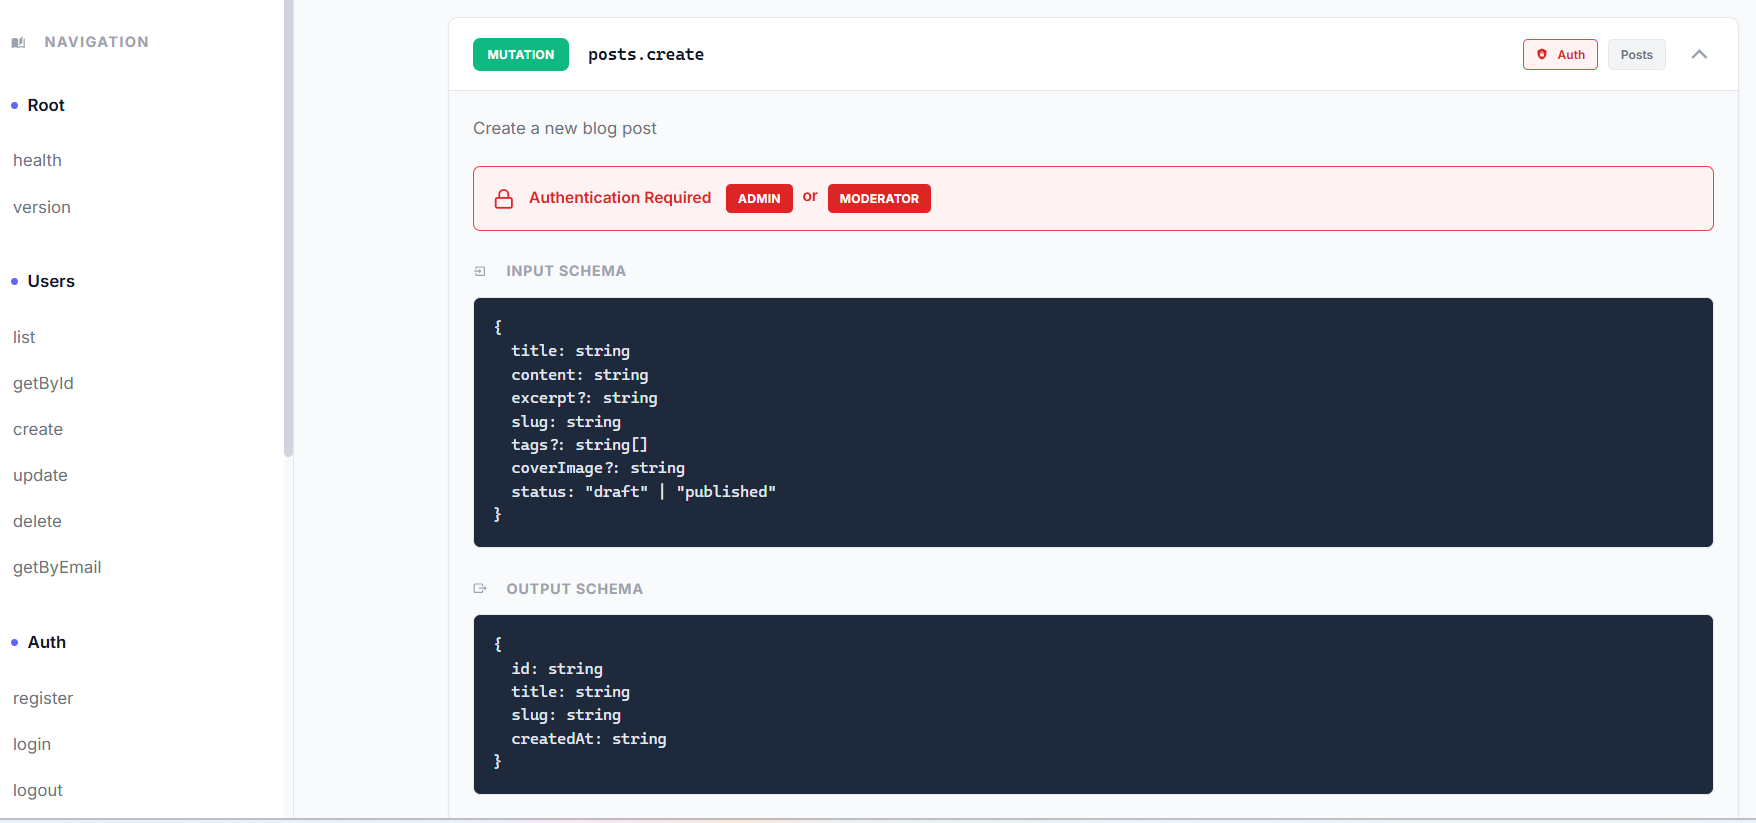
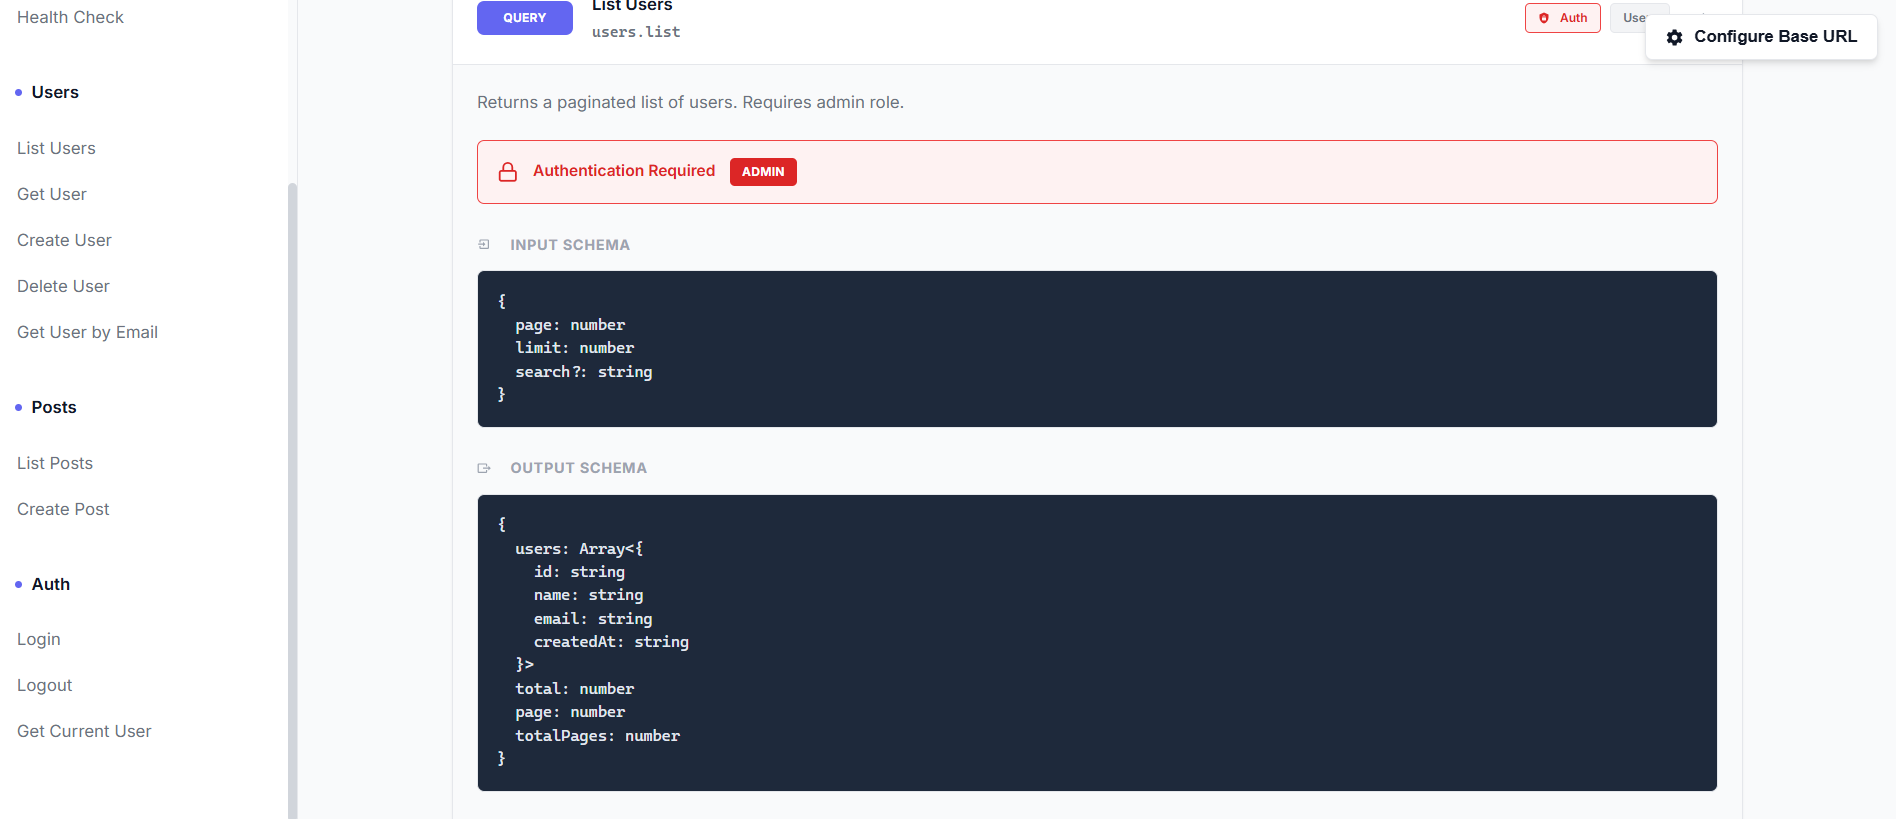
fix: display meta.name in route card header and sidebar (v0.6.1)

diff --git a/src/generate-html.ts b/src/generate-html.ts
@@ -83,7 +83,7 @@ export function generateDocsHtml(routes: RouteInfo[], options: DocsGeneratorOpti
             .map(
               route => `
             <a href="#${route.path.replace(/\./g, '-')}" class="sidebar-link">
-              ${route.path.split('.').pop()}
+              ${route.meta?.name ?? route.path.split('.').pop()}
             </a>
           `
             )
@@ -186,7 +186,10 @@ function generateRouteCard(route: RouteInfo): string {
     <div class="route-card" id="${routeId}">
       <div class="route-header">
         <span class="method-badge method-${route.type}">${route.type}</span>
-        <span class="route-path">${route.path}</span>
+        <div class="route-path-info">
+          ${route.meta?.name ? `<span class="route-name">${route.meta.name}</span>` : ''}
+          <span class="route-path">${route.path}</span>
+        </div>
         <div class="route-tags">
           ${docs?.auth ? '<span class="tag tag-auth"><span class="iconify" data-icon="mdi:shield-lock" style="vertical-align: -0.125em; margin-right: 0.25rem;"></span>Auth</span>' : ''}
           ${docs?.deprecated ? '<span class="tag tag-deprecated"><span class="iconify" data-icon="mdi:alert" style="vertical-align: -0.125em; margin-right: 0.25rem;"></span>Deprecated</span>' : ''}

diff --git a/src/styles.css b/src/styles.css
@@ -333,12 +333,24 @@ header p {
   color: white;
 }
 
+.route-path-info {
+  display: flex;
+  flex-direction: column;
+  gap: 0.1rem;
+  flex: 1;
+}
+
+.route-name {
+  font-size: 0.875rem;
+  font-weight: 600;
+  color: var(--text-primary);
+}
+
 .route-path {
   font-family: 'SF Mono', 'Monaco', 'Cascadia Code', 'Consolas', monospace;
-  font-size: 0.875rem;
+  font-size: 0.8rem;
   font-weight: 500;
-  color: var(--text-primary);
-  flex: 1;
+  color: var(--text-secondary);
   letter-spacing: -0.01em;
 }
 

diff --git a/CHANGELOG.md b/CHANGELOG.md
@@ -5,6 +5,17 @@ All notable changes to this project will be documented in this file.
 The format is based on [Keep a Changelog](https://keepachangelog.com/en/1.1.0/), and this project
 adheres to [Semantic Versioning](https://semver.org/spec/v2.0.0.html).
 
+## [0.6.1] - 2026-02-26
+
+### Fixed
+
+- **`meta.name` not rendered in UI** — The `name` field from route metadata was never displayed in
+  the generated documentation. It now appears as a title in the route card header, with the path
+  shown beneath it as a secondary label. The sidebar also uses the name when available, falling back
+  to the path segment.
+
+---
+
 ## [0.6.0] - 2026-02-25
 
 ### Breaking Changes
